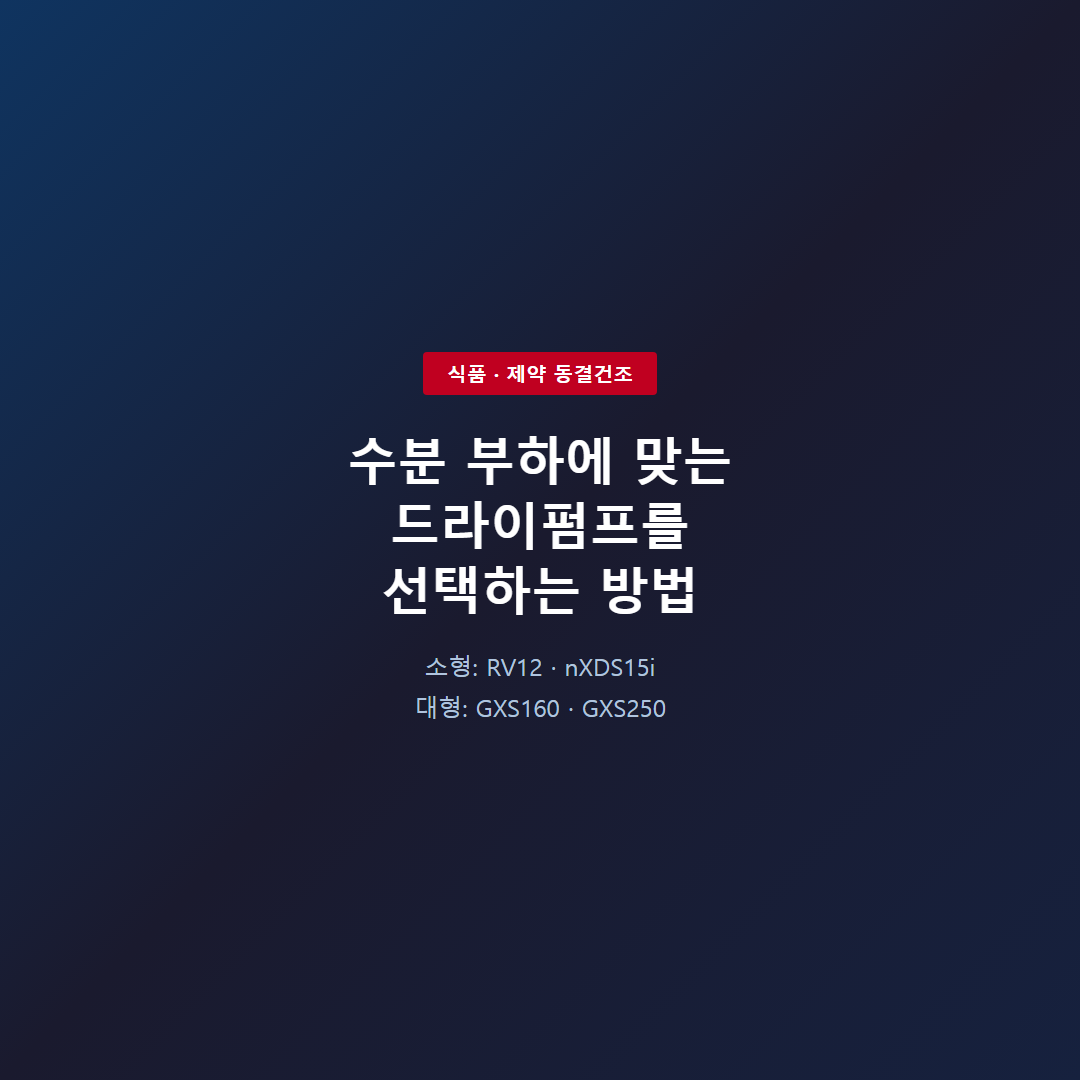
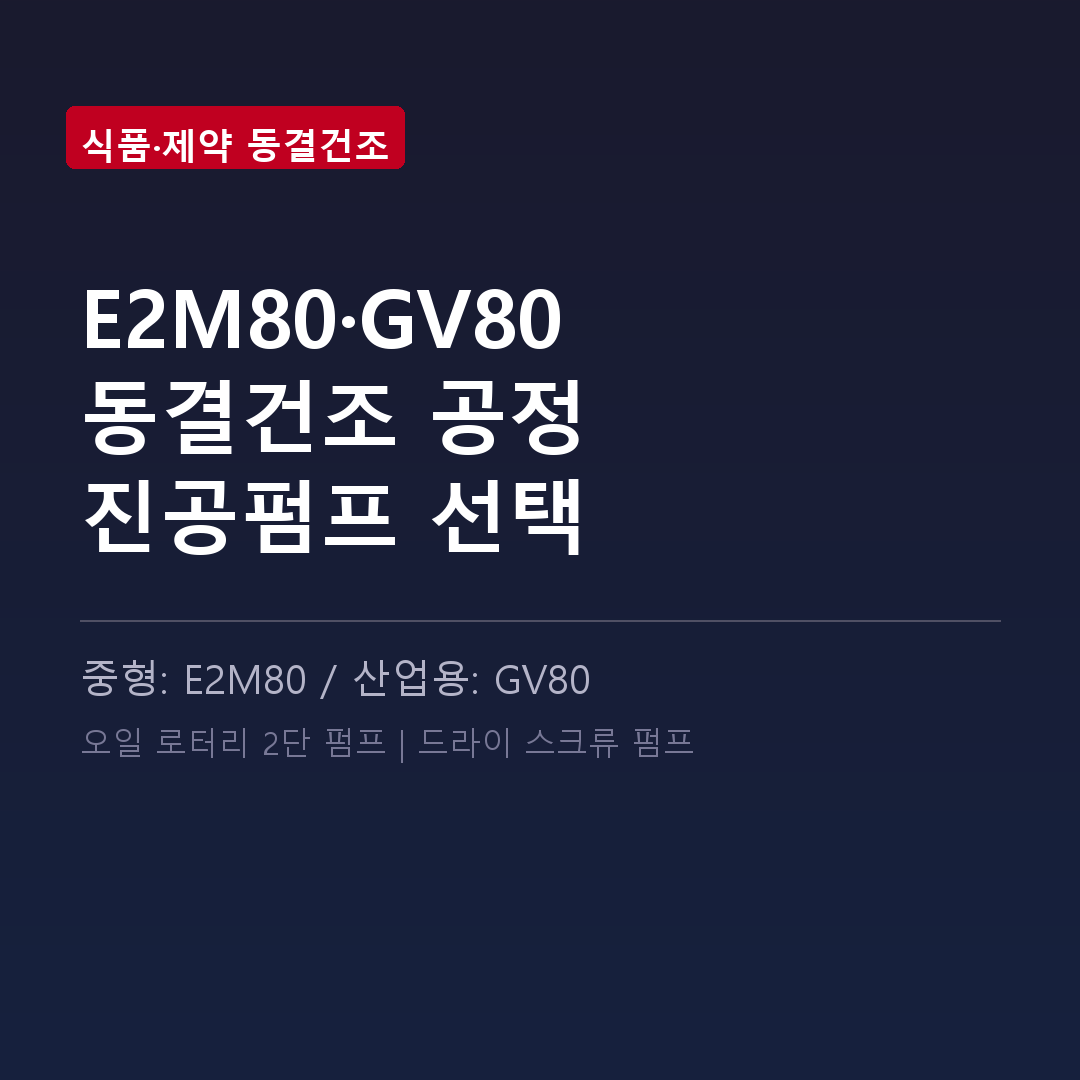
fix: 동결건조 글 수정 — 제목변경, RV12→E2M80, GXS→GV80, 현장사진 교체

Changed region(s): [[0.0, 0.0, 0.6722, 0.5806], [0.0611, 0.6111, 0.6417, 0.7028], [0.0611, 0.6722, 0.275, 0.7028]]

diff --git a/블로그/output/2026-06/동결건조-드라이펌프-선택기준-20260613/naver.md b/블로그/output/2026-06/동결건조-드라이펌프-선택기준-20260613/naver.md
@@ -1,6 +1,6 @@
 <!-- 수치검증: A항목 10개 확인 / B항목 0개 확인 / 삭제 0개 / 교체 0개 -->
 
-# 동결건조 드라이펌프 선택법 — 수분 부하가 핵심입니다
+# 동결건조 공정에 적합한 진공펌프 선택
 
 ![동결건조 공정에 연결된 Edwards 진공펌프 납품 현장](./images/field-1.png)
 
@@ -14,35 +14,23 @@
 
 ![동결건조 3단계와 진공 요구조건 다이어그램](./images/image-01.png)
 
-## RV 오일 로터리 펌프가 소형 동결건조기에서 쓰이는 이유
+## E2M80 오일 로터리 펌프가 중형 동결건조기에서 쓰이는 이유
 
-실제로 파일럿 규모 동결건조기에는 RV12 같은 오일 로터리 펌프가 많이 쓰입니다. 가격이 드라이펌프보다 저렴하고, 도달진공 2×10⁻³ mbar로 2차 건조 구간도 커버하기 때문입니다. (✅ 스마텍 product_master_table)
+중형 규모 동결건조기에는 E2M80 오일 로터리 2단 펌프가 많이 쓰입니다. 배기속도 74 m³/h에 도달진공 3.0×10⁻³ mbar로 2차 건조 구간을 충분히 커버합니다. (✅ 스마텍 product_master_table)
 
-얼마 전 태영엘에스 담당자와 상담 시, 레콩코 동결건조기에 연결할 RV12 2대 구매 건이 있었습니다. 콘덴서가 수분을 먼저 포집하는 구조여서 펌프에 도달하는 수분 양이 제한적인 경우입니다. 가스발라스트 II 기능을 켜면 수증기 처리 능력이 290 g/h까지 올라갑니다. (✅ 스마텍 product_master_table)
+제약 동결건조 라인에는 AZ 버전(Ultragrade 70 AZ 오일)을 사용합니다. Azide 계열 화합물에 호환되고, Edwards 공식 적용처에 제약 동결건조(Pharma freeze-drying)가 명시되어 있습니다. 가스발라스트 운전 시 수증기 처리 용량은 0.3 kg/h입니다. (✅ 스마텍 product_master_table)
 
 단, 오일 로터리를 쓰면 오일 관리가 따릅니다. 1차 건조 구간 내내 가스발라스트를 열어두고, 배치가 끝나면 오일 상태를 확인하는 루틴이 필요합니다. 오일이 뿌옇게 유화되면 바로 교환해야 합니다.
-
-## 드라이 스크롤 펌프(nXDS)는 어떤 동결건조기에 맞나요?
-
-랩 스케일 동결건조기(처리량 0.1~2 kg/배치)에는 nXDS 시리즈가 잘 맞습니다. 오일프리 구조여서 수분이 들어와도 오일 오염이 없고, 유지보수도 간단합니다.
-
-- nXDS10i: 배기속도 11.4 m³/h, 도달진공 7×10⁻³ mbar (✅ 스마텍 product_master_table)
-- nXDS15i: 배기속도 15.1 m³/h, 도달진공 7×10⁻³ mbar (✅ 스마텍 product_master_table)
-
-2차 건조 구간의 깊은 진공도 충분히 커버합니다. 실험실 연구용 동결건조기부터 식품 소배치 생산 라인까지 적합한 범위입니다.
 
 ![동결건조 처리량별 진공펌프 선택 가이드](./images/image-02.png)
 
 ## 산업용 대형 동결건조라면 드라이 스크류를 검토하세요
 
-처리량이 20 kg/배치 이상이거나 24시간 연속 가동이 필요한 산업 라인에서는 GXS 드라이 스크류 펌프가 더 안정적입니다.
+처리량이 많거나 24시간 연속 가동이 필요한 산업 라인에서는 GV80 드라이 스크류 펌프(DRYSTAR)가 더 안정적입니다.
 
-- GXS160: 배기속도 160 m³/h, 도달진공 7×10⁻³ mbar (✅ 스마텍 product_master_table)
-- GXS250: 배기속도 250 m³/h, 도달진공 4×10⁻³ mbar (✅ 스마텍 product_master_table)
+- GV80: 오일프리 공정부, 연속 가동 적합 (상세 사양은 별도 문의)
 
-오일프리 공정부여서 수분 부하에도 오일 오염이 없고, 수냉 방식으로 연속 가동에도 열 관리가 됩니다. 질소 퍼지를 유지하면 수증기가 내부에서 응결되지 않습니다.
-
-제약 동결건조 대형 라인에서는 배기 속도를 높이기 위해 EH 루츠 부스터를 추가하는 경우도 있습니다. GXS160+EH1200 또는 GXS250+EH2600 조합이 현장에서 확인된 구성입니다. (✅ 스마텍 현장 확인 조합표)
+오일프리 구조여서 수분 부하에도 공정부 오염이 없고, 드라이 스크류 방식으로 장시간 가동에도 안정적입니다. 질소 퍼지를 유지하면 수증기가 내부에서 응결되지 않습니다.
 
 동결건조기 사양과 배치 조건을 가지고 문의하시면 최적 조합을 안내드립니다.
 
@@ -54,4 +42,4 @@ www.smartechvacuum.com
 
 ---
 
-#동결건조 #동결건조기 #드라이펌프 #진공펌프선택 #RV12 #nXDS #GXS펌프 #식품동결건조 #제약동결건조 #Edwards진공펌프
+#동결건조 #동결건조기 #드라이펌프 #진공펌프선택 #E2M80 #GV80 #식품동결건조 #제약동결건조 #Edwards진공펌프

diff --git a/블로그/output/2026-06/동결건조-드라이펌프-선택기준-20260613/final.md b/블로그/output/2026-06/동결건조-드라이펌프-선택기준-20260613/final.md
@@ -4,7 +4,7 @@ category: 기술문의
 
 <!-- 수치검증: A항목 10개 확인 / B항목 0개 확인 / 삭제 0개 / 교체 0개 -->
 
-# 동결건조 공정에서 수분 처리 조건에 맞는 드라이펌프 선택하기
+# 동결건조 공정에 적합한 진공펌프 선택
 
 ![동결건조 드라이펌프 선택 기준](./images/thumbnail.png)
 
@@ -18,36 +18,30 @@ category: 기술문의
 
 대부분의 동결건조기는 펌프 앞단에 콘덴서(cold trap)를 설치해 수증기를 포집합니다. 펌프는 콘덴서 통과 후 잔여 수분만 처리하지만, 이 잔여 수분의 처리 방식이 펌프 수명을 좌우합니다.
 
-## 소형~파일럿 동결건조기 — RV 오일 로터리 또는 nXDS 드라이 스크롤
+## 중형 동결건조기 — E2M80 오일 로터리 2단 펌프
 
-처리량 0.1~20 kg/배치 수준의 소형·파일럿 동결건조기에는 두 가지 선택지가 있습니다.
+처리량 20~200 kg/배치 수준의 중형 동결건조기에는 E2M80 오일 로터리 2단 펌프가 적합합니다.
 
-**RV 오일 로터리 펌프**
-- 도달진공: 2×10⁻³ mbar — 2차 건조 구간 커버
-- RV12: 가스발라스트 II 수증기 처리 290 g/h
+**E2M80 오일 로터리 펌프**
+- 배기속도: 74 m³/h (50Hz)
+- 도달진공: 3.0×10⁻³ mbar — 2차 건조 구간 커버
+- 수증기 처리 용량: 0.3 kg/h (가스발라스트 운전 시)
+- 권장 오일: Ultragrade 70 (HC) 또는 Ultragrade 70 AZ (제약 동결건조 권장)
+- AZ 버전은 Azide 계열 화합물 호환, 제약 동결건조 공식 적용처로 명시됨
 - 가격 경쟁력 있음. 단, 오일 교환 및 가스발라스트 관리 필요.
 
-**nXDS 드라이 스크롤 펌프 (오일프리)**
-
-| 모델 | 배기속도 | 도달진공 |
-|------|---------|---------|
-| nXDS10i | 11.4 m³/h | 7×10⁻³ mbar |
-| nXDS15i | 15.1 m³/h | 7×10⁻³ mbar |
-
-수분 유입 시 오일 오염 없음. 유지보수 항목 단순.
-
-## 산업용 대형 동결건조기 — GXS 드라이 스크류
+## 산업용 대형 동결건조기 — GV80 드라이 스크류
 
 ![산업용 동결건조 드라이 스크류 펌프 사양 카드](./images/image-02.png)
 
-처리량 20 kg/배치 이상, 연속 가동 라인에는 GXS 드라이 스크류 펌프가 적합합니다.
+처리량 200 kg/배치 이상, 연속 가동 라인에는 GV80 드라이 스크류 펌프가 적합합니다.
 
-| 모델 | 배기속도 | 도달진공 |
-|------|---------|---------|
-| GXS160 | 160 m³/h | 7×10⁻³ mbar |
-| GXS250 | 250 m³/h | 4×10⁻³ mbar |
+**GV80 드라이 스크류 펌프 (DRYSTAR)**
+- 오일프리 공정부: 수분 부하에도 오일 오염 없음
+- 연속 가동 적합: 24시간 산업 라인에 안정적
+- 상세 사양 확인 필요 (배기속도·도달진공 수치는 별도 문의)
 
-오일프리 공정부와 수냉 방식으로 장시간 연속 가동에도 안정적입니다. 배기 속도 확장이 필요하면 GXS160+EH1200, GXS250+EH2600 조합을 검토할 수 있습니다.
+오일프리 구조로 수분 부하에도 공정부 오염이 없고, 드라이 스크류 방식이어서 장시간 연속 가동에도 안정적입니다.
 
 ## 오일 로터리 선택 시 수분 관리 핵심 3가지
 
